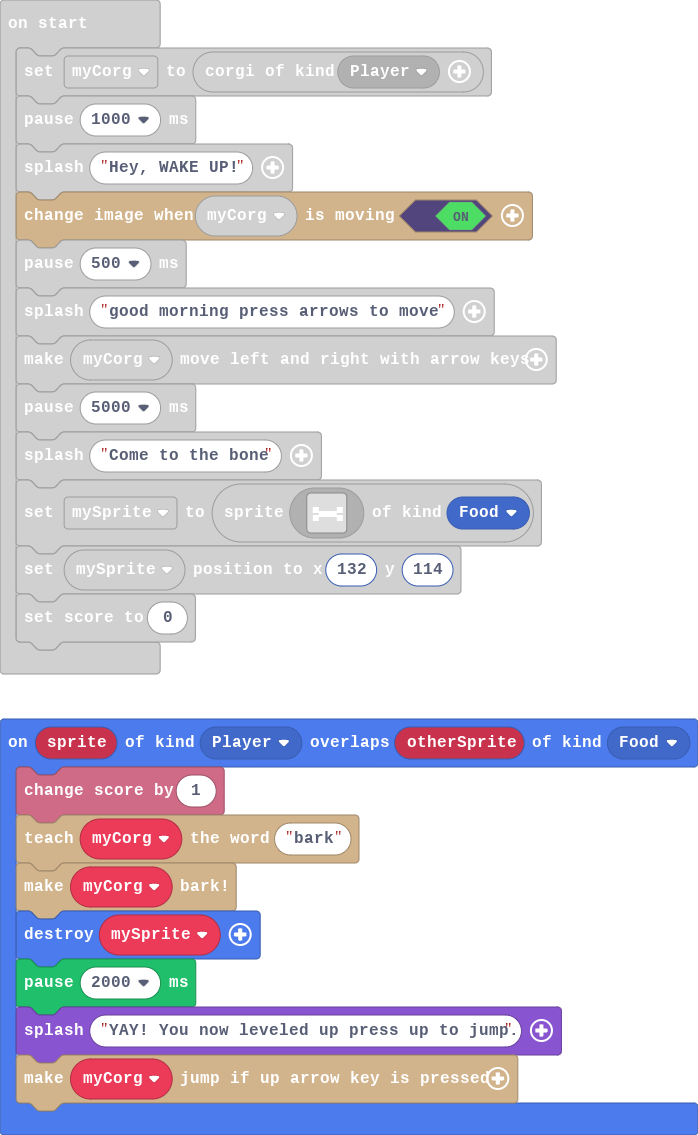
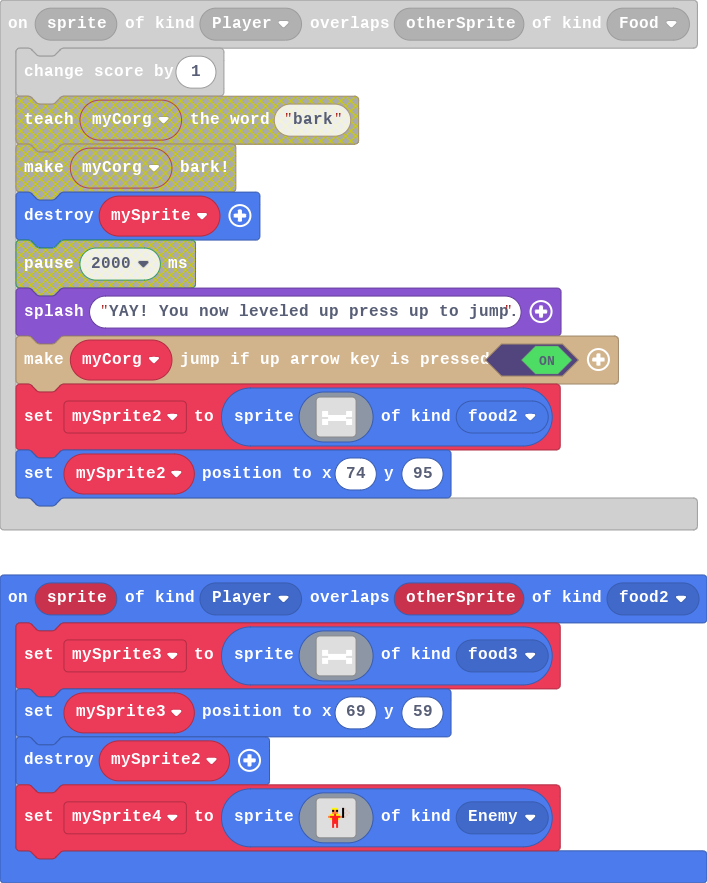
Update main.blocks, main.ts

diff --git a/main.ts b/main.ts
@@ -1,12 +1,75 @@
+namespace SpriteKind {
+    export const food2 = SpriteKind.create()
+    export const food3 = SpriteKind.create()
+}
+sprites.onOverlap(SpriteKind.Player, SpriteKind.food2, function (sprite, otherSprite) {
+    mySprite3 = sprites.create(img`
+        . . . . . . . . . . . . . . . . 
+        . . . . . . . . . . . . . . . . 
+        . . . . . . . . . . . . . . . . 
+        . . . . . . . . . . . . . . . . 
+        . . . . . . . . . . . . . . . . 
+        . 1 1 1 . . . . . . . . . 1 1 1 
+        . 1 1 1 . . . . . . . . . 1 1 1 
+        . 1 1 1 1 1 1 1 1 1 1 1 1 1 1 1 
+        . . . . 1 1 1 1 1 1 1 1 1 . . . 
+        . 1 1 1 1 1 1 1 1 1 1 1 1 1 1 1 
+        . 1 1 1 . . . . . . . . . 1 1 1 
+        . 1 1 1 . . . . . . . . . 1 1 1 
+        . . . . . . . . . . . . . . . . 
+        . . . . . . . . . . . . . . . . 
+        . . . . . . . . . . . . . . . . 
+        . . . . . . . . . . . . . . . . 
+        `, SpriteKind.food3)
+    mySprite3.setPosition(69, 59)
+    mySprite2.destroy()
+    mySprite4 = sprites.create(img`
+        . . . . . . . . . . . . . . . . 
+        . . . . . . . . . . . . . . . . 
+        . . . . . . . . . . . . . . . . 
+        . . . . . . 5 5 5 . . f d . . . 
+        . . . . . . f 4 f . . f . d . . 
+        . . . . . . 4 4 4 . . f d . d . 
+        . . . . . 5 5 2 5 5 . f . d . . 
+        . . . . 4 2 2 2 2 2 4 f d . . . 
+        . . . . . 5 2 2 2 5 . . . . . . 
+        . . . . . . 2 2 2 . . . . . . . 
+        . . . . . . 2 2 2 . . . . . . . 
+        . . . . . . 2 . 2 . . . . . . . 
+        . . . . . . 2 . 2 . . . . . . . 
+        . . . . . . . . . . . . . . . . 
+        . . . . . . . . . . . . . . . . 
+        . . . . . . . . . . . . . . . . 
+        `, SpriteKind.Enemy)
+})
 sprites.onOverlap(SpriteKind.Player, SpriteKind.Food, function (sprite, otherSprite) {
     info.changeScoreBy(1)
-    myCorg.addToScript("bark")
-    myCorg.bark()
     mySprite.destroy()
-    pause(2000)
     game.splash("YAY! You now leveled up press up to jump.")
-    myCorg.verticalMovement()
+    myCorg.verticalMovement(true)
+    mySprite2 = sprites.create(img`
+        . . . . . . . . . . . . . . . . 
+        . . . . . . . . . . . . . . . . 
+        . . . . . . . . . . . . . . . . 
+        . . . . . . . . . . . . . . . . 
+        . . . . . . . . . . . . . . . . 
+        . 1 1 1 . . . . . . . . . 1 1 1 
+        . 1 1 1 . . . . . . . . . 1 1 1 
+        . 1 1 1 1 1 1 1 1 1 1 1 1 1 1 1 
+        . . . . 1 1 1 1 1 1 1 1 1 . . . 
+        . 1 1 1 1 1 1 1 1 1 1 1 1 1 1 1 
+        . 1 1 1 . . . . . . . . . 1 1 1 
+        . 1 1 1 . . . . . . . . . 1 1 1 
+        . . . . . . . . . . . . . . . . 
+        . . . . . . . . . . . . . . . . 
+        . . . . . . . . . . . . . . . . 
+        . . . . . . . . . . . . . . . . 
+        `, SpriteKind.food2)
+    mySprite2.setPosition(74, 95)
 })
+let mySprite4: Sprite = null
+let mySprite2: Sprite = null
+let mySprite3: Sprite = null
 let mySprite: Sprite = null
 let myCorg: Corgio = null
 myCorg = corgio.create(SpriteKind.Player)
